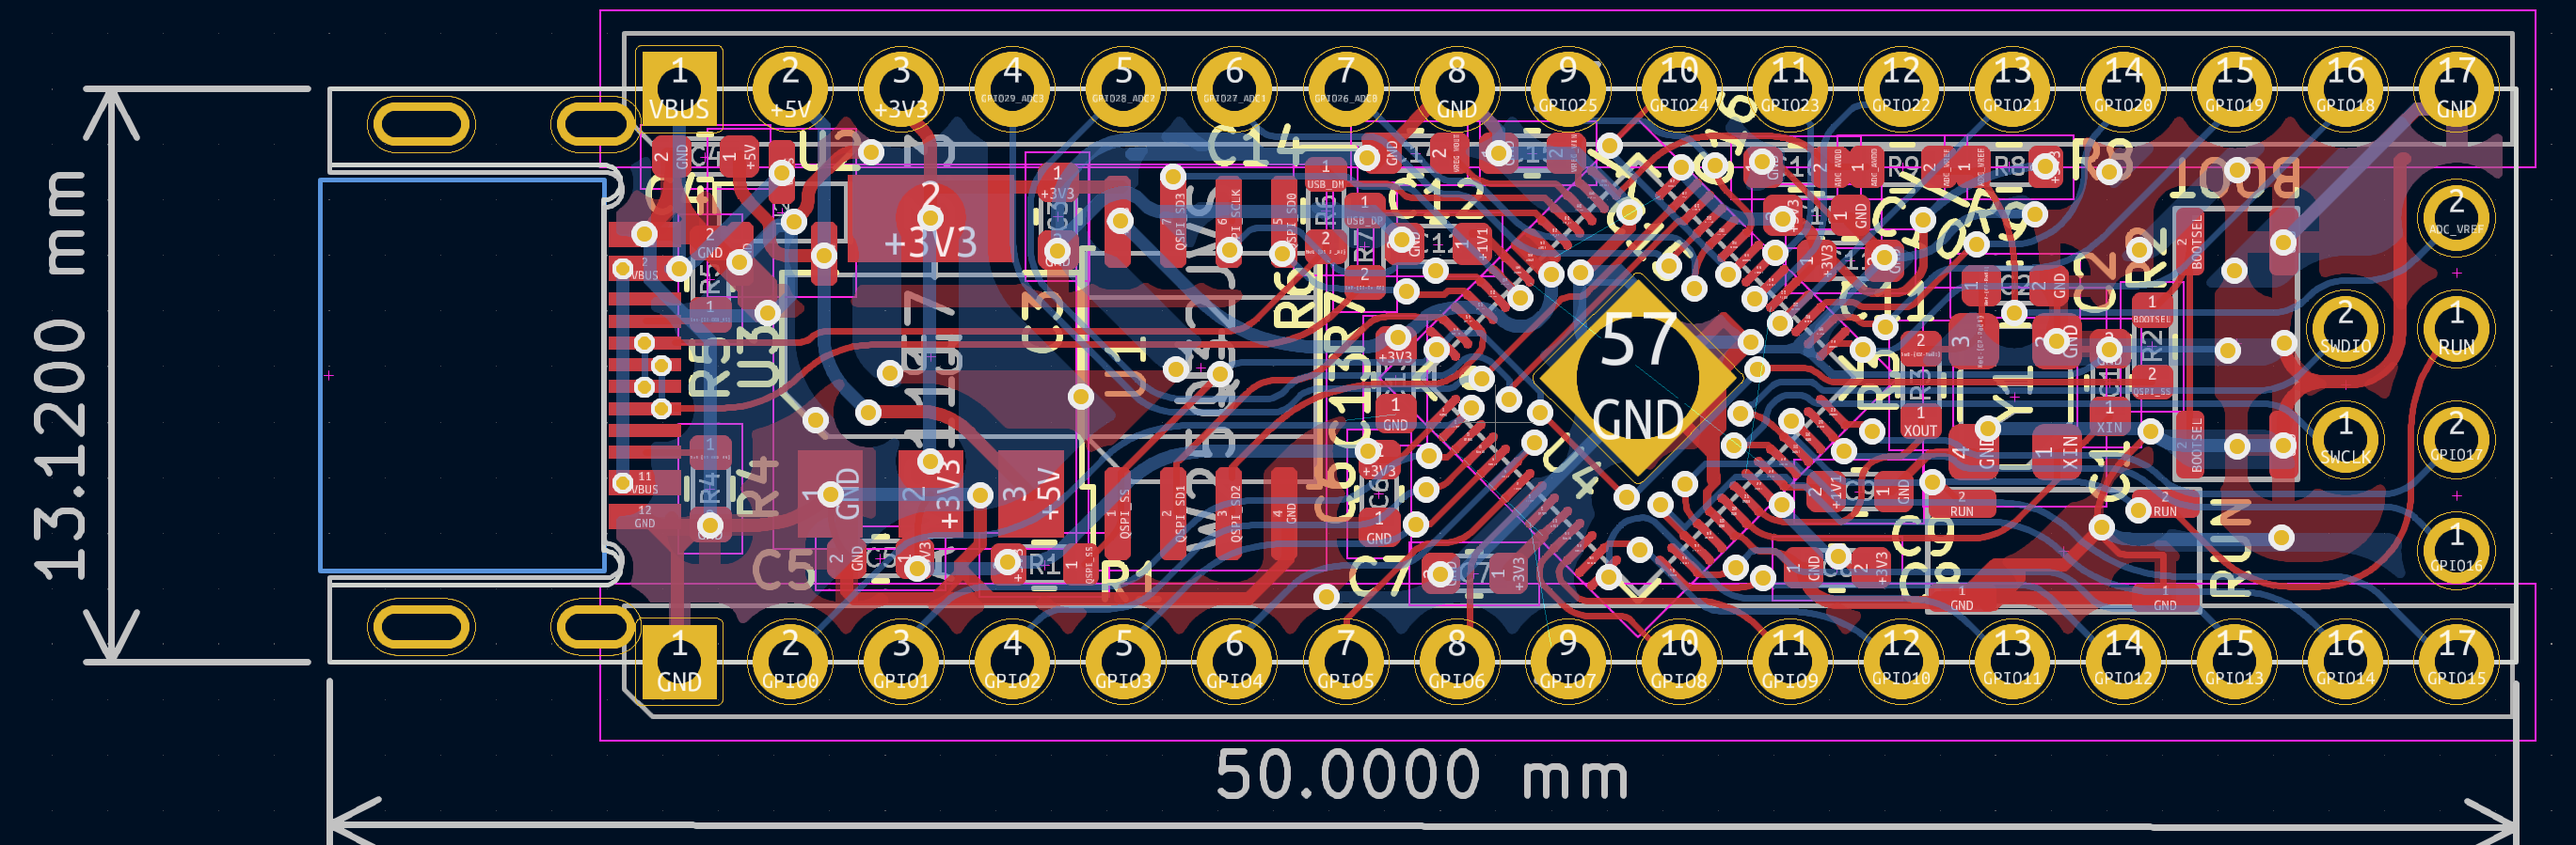
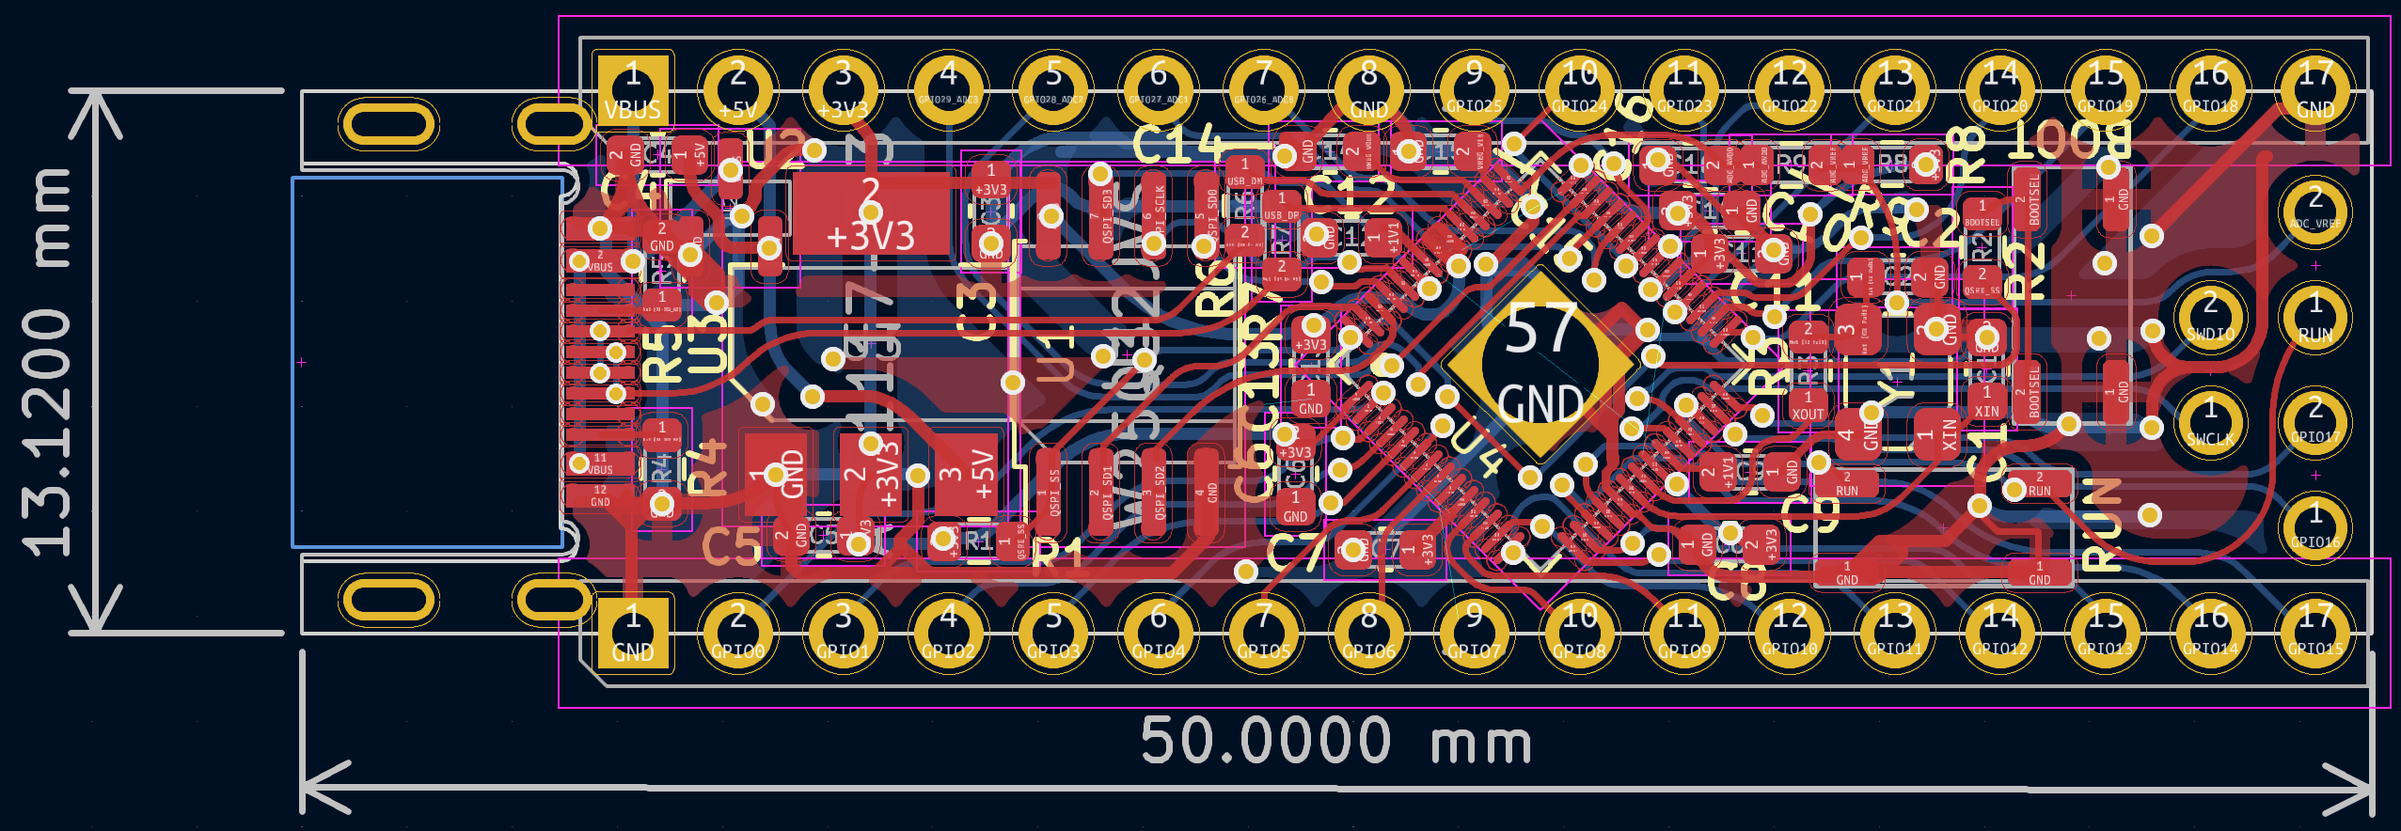
docs: update 2024.01.21.04:39.18

diff --git a/rp2040_slim_v2/rp2040_slim_v2.md b/rp2040_slim_v2/rp2040_slim_v2.md
@@ -4,7 +4,7 @@
 * 試作1を改善する。
 
 
-![](slim-brd.svg)
+![](pcb.png)
 ![](3d.png)
 
 
